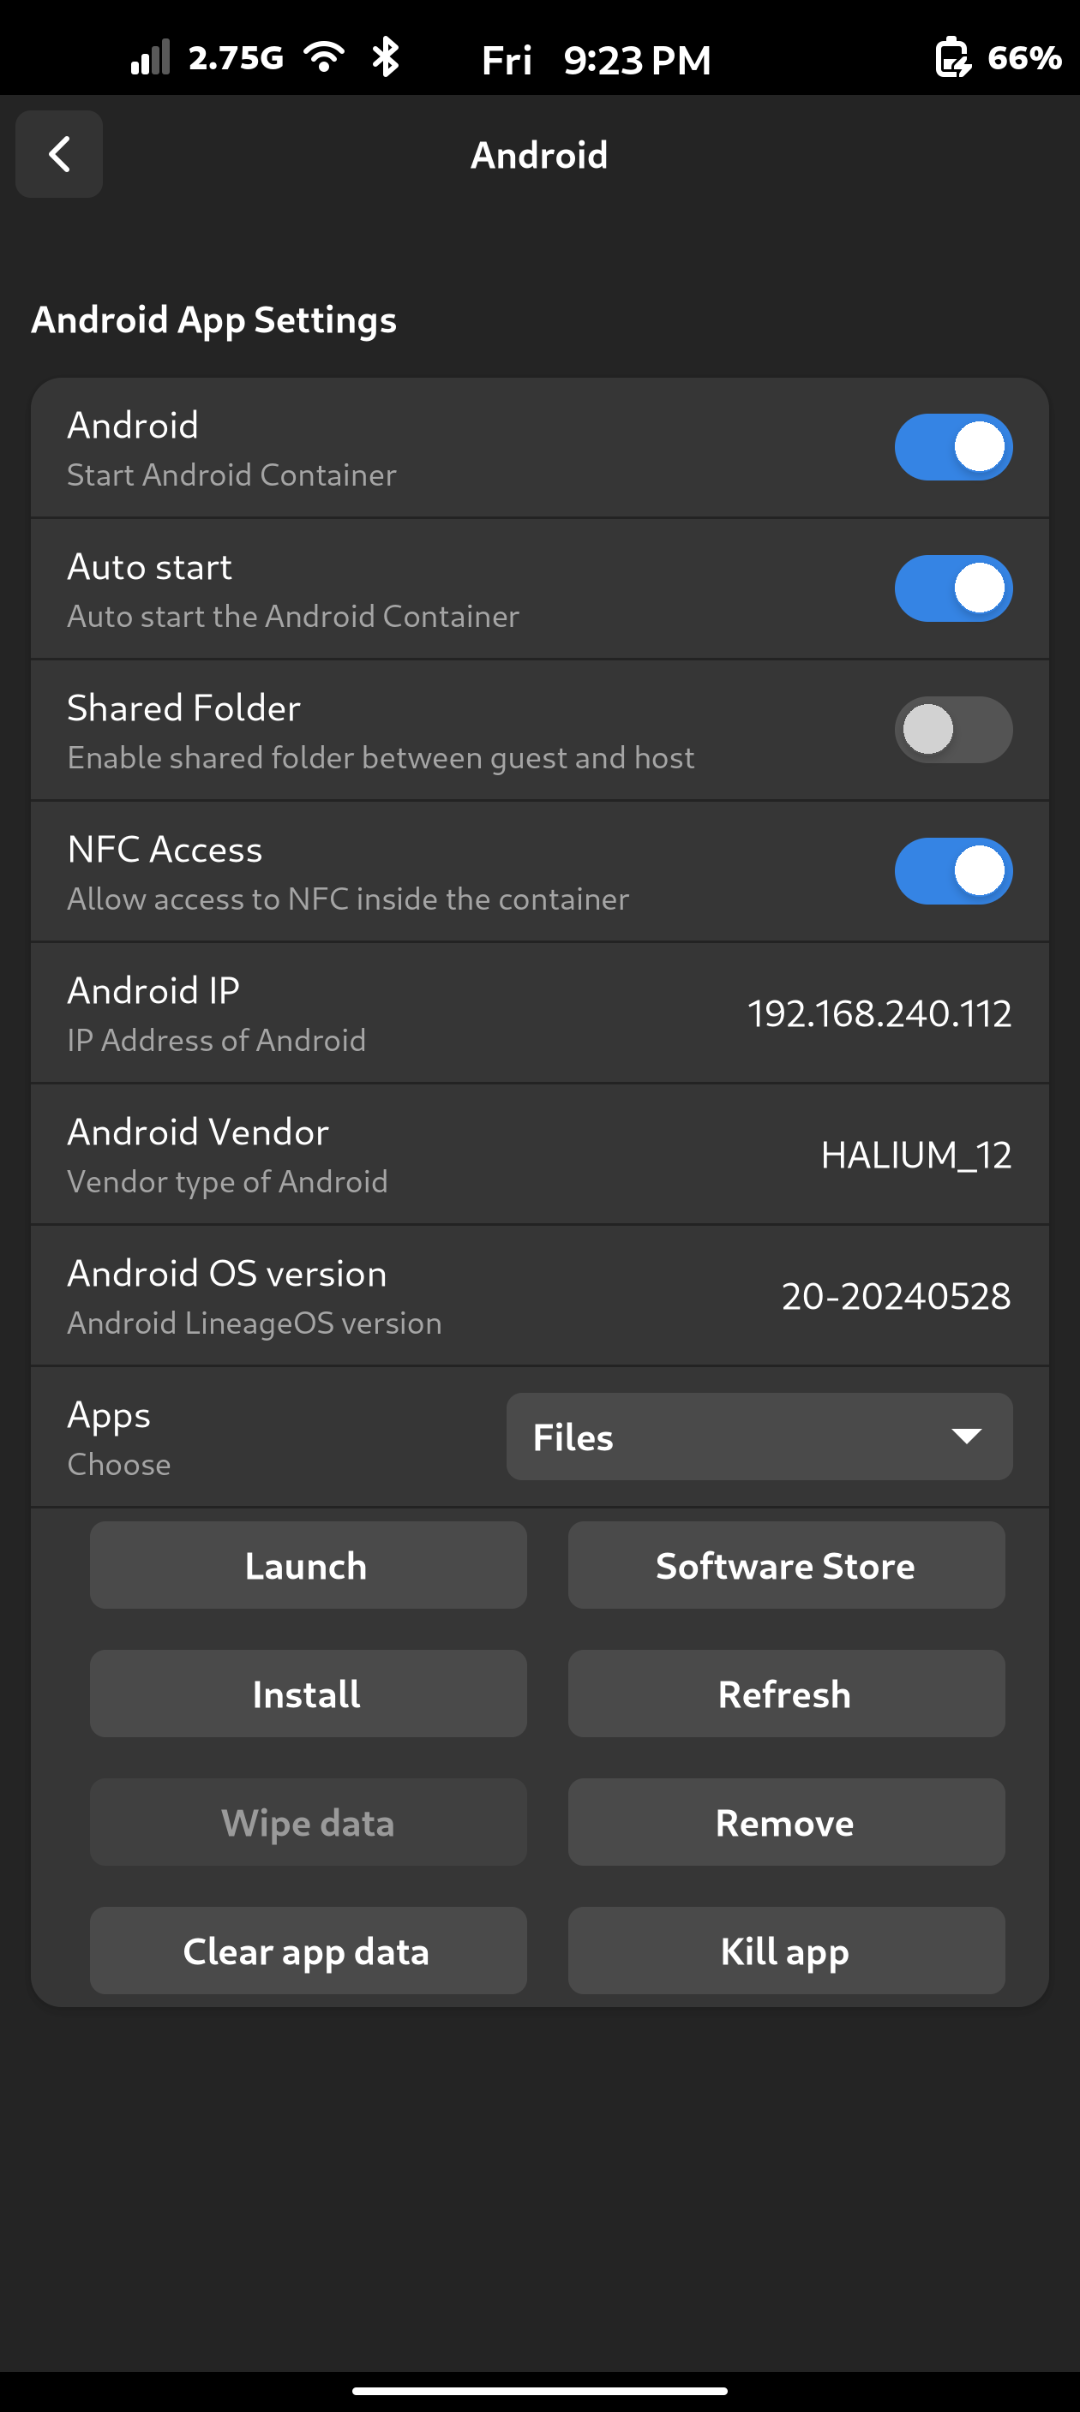
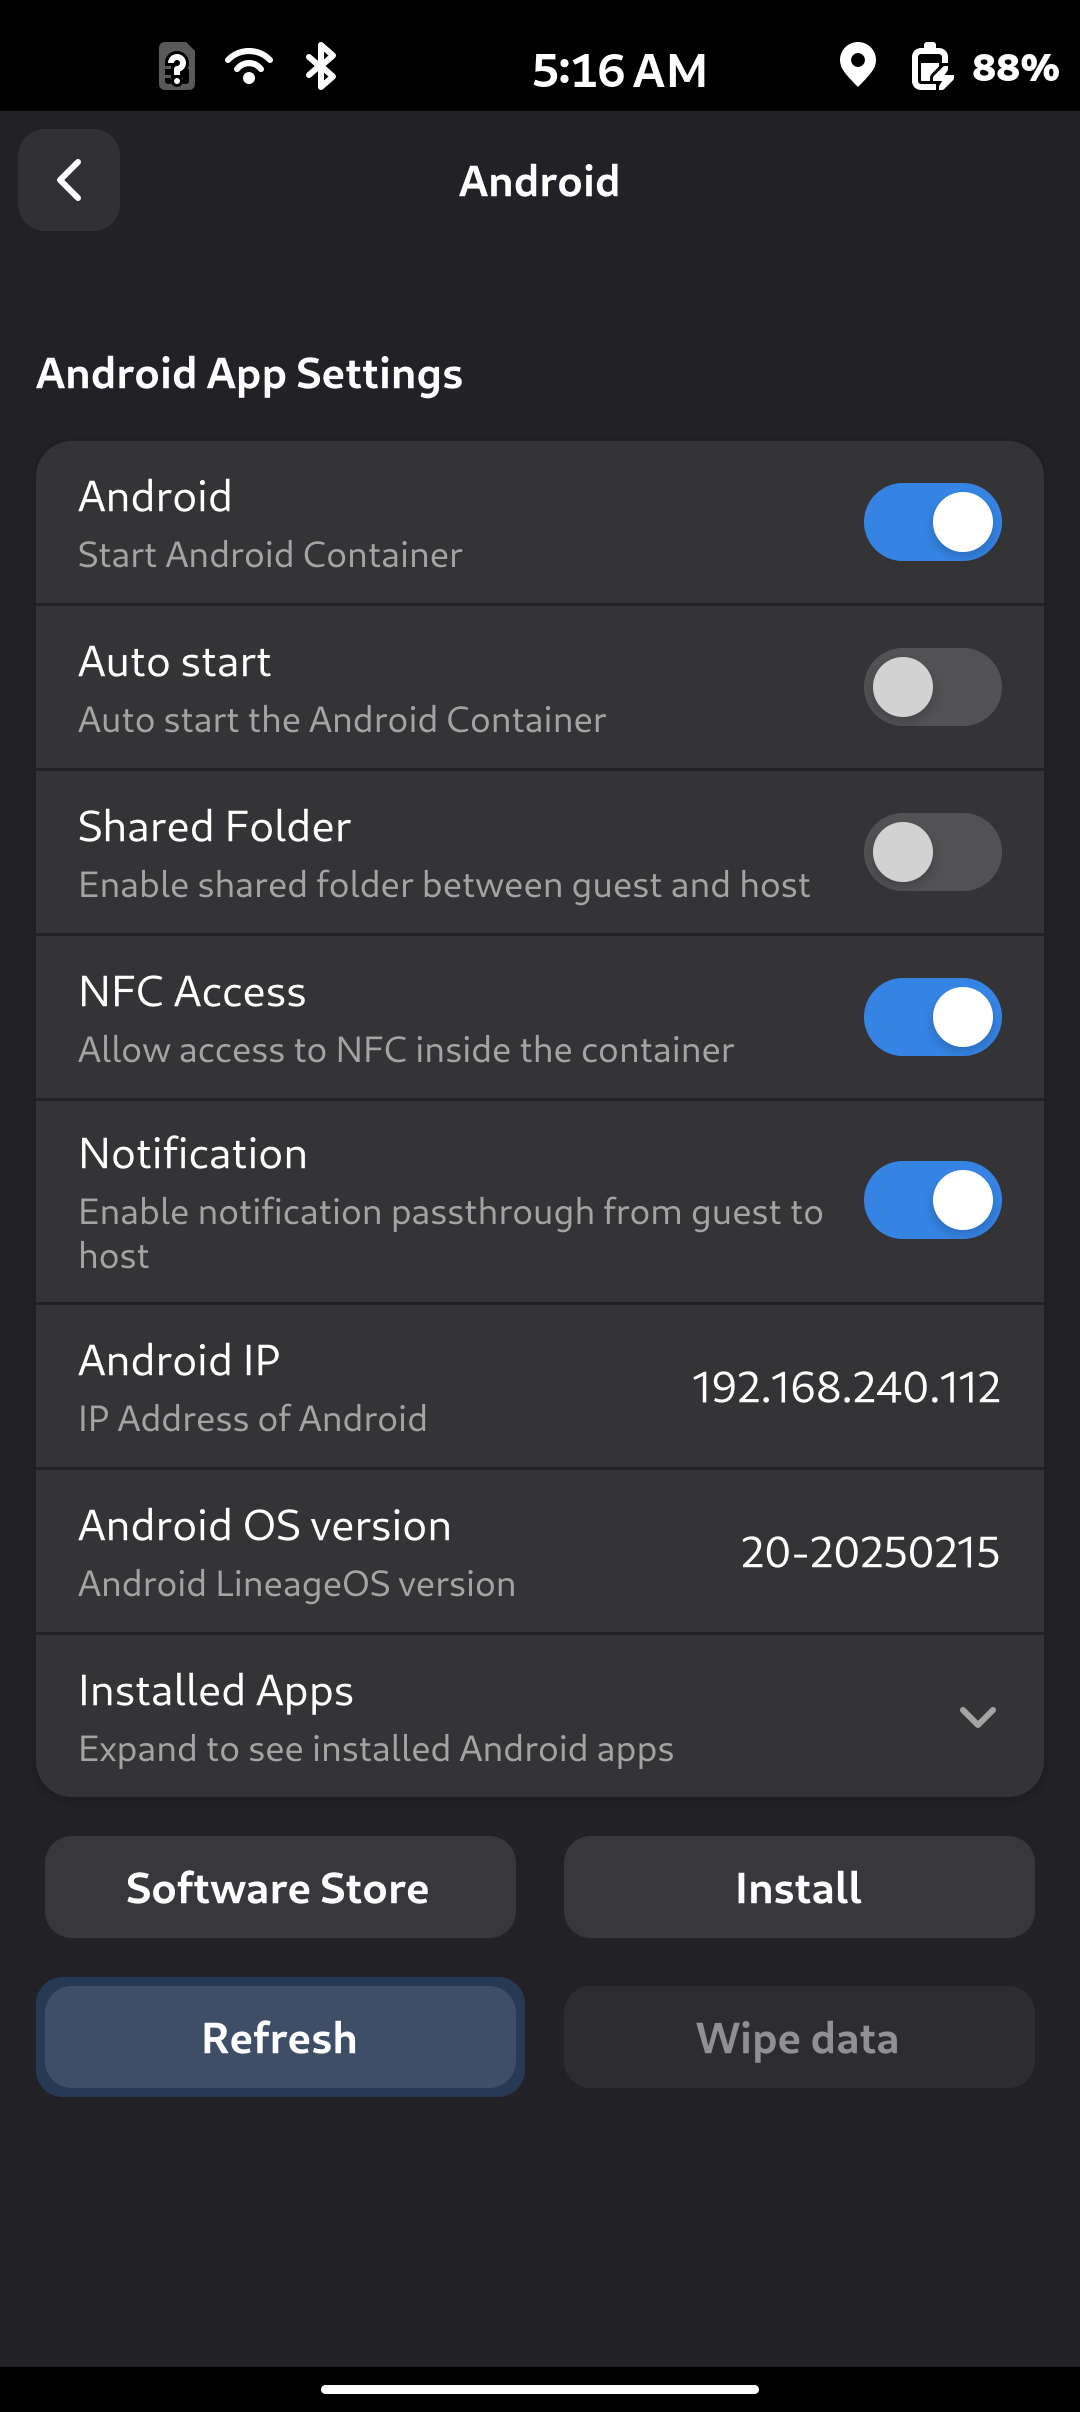
FLX1: Updates

diff --git a/content/FuriLabs-FLX1.md b/content/FuriLabs-FLX1.md
@@ -1,7 +1,7 @@
 +++
 title = "Furilabs FLX1"
 description = "Information about the Furilabs FLX1, its features and limitations."
-date = 2024-09-16
+date = 2025-03-09
 draft = false
 
 [taxonomies]
@@ -26,24 +26,24 @@ series = "Phones"
 - Battery Life: 5/5
 
 # Setup information
-- OS: FuriOS 13.0.3
-- Kernel: 4.19.233
+- OS: FuriOS 13.0.8
+- Kernel: 4.19.325
 - DE: Phosh
 
 
 # Performance
 
-The FLX1 is a fast phone in general. The Mediatek Dimensity 900 is a fast SOC especially compared to the pinephone/pinephone pro/librem 5 devices. It comes with 6GB of RAM , which is more than enough for most tasks but can be limiting. Web browsing and media playback are fast and smooth. Android container is fully supported so acceleration works well and the performance is great. There are some acceleration issues with flatpak qt6 based applications, so they are set to software rendering. Flatpak qt5/gtk4 and native qt5/qt6/gtk4 are all accelerated without issues.
+The FLX1 is a fast phone in general. The Mediatek Dimensity 900 is a fast SOC especially compared to the pinephone/pinephone pro/librem 5 devices. It comes with 6GB of RAM , which is more than enough for most tasks but can be limiting. Web browsing and media playback are fast and smooth. Android container is fully supported with acceleration working well and the performance is great. There are some acceleration issues with flatpak qt6 based applications. Flatpak qt5/gtk4 and native qt5/qt6/gtk4 are all accelerated without issues.
 
 
 # Compatibility
 
-The FLX1 is a halium based device so it is limiting to what OS/DE you can run on it. Currently FuriOS is the only supported OS, but someone can create a port for UT. You wont be able to run any of the other mainline OS though like arch and postmarketos. For desktop environments (DE) you are also limited to Phosh and potentially Lomiri, assuming UT is ported by a 3rd party. Plasma mobile also has a fork that someone was able to get it working on droidian devices but it is not officially supported and stuck on plasma mobile 5. Every app that I've tested so far was launched and worked correctly, bearing the HW acceleration issues.
+The FLX1 is a halium based device so it is limiting to what OS/DE you can run on it. Currently FuriOS is the only supported OS, but there exists a WIP Ubuntu Touch port. You wont be able to run any of the other mainline OS though like arch and postmarketos. For desktop environments (DE) you are also limited to Phosh in FuriOS and Lomiri in the Ubuntu Touch port. GTK based applications seem to function the best while some QT based applications have issues such as acceleration and/or failing to launch like angelfish.
 
 
 # Android
 
-Android support is amazing with lots of sensors passed through to the container, listed below. While Waydroid was used a base, it has been heavily modified to improve the experience and has deviating massively from waydroid so I will just adress it as Android Container. You should be able to run most android applications without any issues, including games. Currently video playback is broken, but there is already a patch avaliable that fixes most issues and I can confirm Grayjay works. Android also integrated perfectly with the rest of the OS. All your android applications show up in the app drawer. Theres a android section in the phosh settings that exposes a lot of android settings to the user. The current implementation of the settings panel (as shown below) is going through a redesign.
+Android support is amazing with lots of sensors passed through to the container, listed below. While Waydroid was used a base, it has been heavily modified to improve the experience and has deviated massively from upstream waydroid so I will just adress it as Android Container. You should be able to run most android applications without any issues except the usually culprits like some bank applications. Video playback works and I can confirm Grayjay works perfectly except the volume control guesture. Android also integrated perfectly with the rest of the OS with all your android applications showing up in the app drawer. There is a gnome software plugin so you can search and install android apps through gnome software store as if it was a native application removing the need to open fdroid. There's a android section in the phosh settings that exposes a lot of android settings to the user as shown below.
 
 {{ resize_image(path="/images/misc/furios/android_settings.png", width=480, alt="FuriOS Android Settings") }}
 
@@ -54,8 +54,8 @@ Android support is amazing with lots of sensors passed through to the container,
 | GPS                 | {{ img(src="/icons/checkmark.svg" alt="Yes")}} |
 | Cameras             | {{ img(src="/icons/checkmark.svg" alt="Yes")}} |
 | Microphone          | {{ img(src="/icons/checkmark.svg" alt="Yes")}} |
-| Bluetooth           | {{ img(src="/icons/exclamation.svg" alt="Maybe")}} |
-| Modem               | {{ img(src="/icons/exclamation.svg" alt="Maybe")}} |
+| Bluetooth           | {{ img(src="/icons/cross.svg" alt="No")}} |
+| Modem               | {{ img(src="/icons/checkmark.svg" alt="Yes")}} |
 | NFC                 | {{ img(src="/icons/checkmark.svg" alt="Yes")}} |
 | Fingerprint Sensor  | {{ img(src="/icons/checkmark.svg" alt="Yes")}} |
 | Accelerometer       | {{ img(src="/icons/checkmark.svg" alt="Yes")}} |
@@ -76,18 +76,18 @@ Android support is amazing with lots of sensors passed through to the container,
 
 # Docking
 
-The FLX1 isn't currently able to output video via the usb c port due to the lack of hardware support. They are currently working on a wireless solution like what UT has with Miracast. This would limit you to only using Miracast compatible devices such as the Nexdock Wireless or using a Miracast dongle. This is still not available yet though so only time will tell how well it works.
+The FLX1 docking is in a weird position as the hardware does not support usb dp-alt mode but they are still able to utilize evdi to get video rendering externally. They are also wireless solution like what UT has with Miracast that can be implemented in the future.This is still not available yet though so only time will tell how well it works and how universal these options are.
 
 
 # Web Browsing
 
-Web browsing works really well and I haven't ran into any issues with firefox yet. Firefox is a custom build that they maintain internal with improvements to performance and scaling to make it more mobile friendly. Due to it being a custom build it is possible for it to fall behind a few releases due to issues in new releases but so far they are on top of it and the changes are amazing. Based on benchmarking results with [speedometer 3.0](https://browserbench.org/Speedometer3.0/) either firefox or epiphany work but I would recommend firefox. Angelfish doesn't work at all.
+Web browsing works really well. Firefox is a custom build that they maintain internal with improvements to performance and scaling to make it more mobile friendly. Due to it being a custom build it is possible for it to fall behind a few releases due to diffs in new releases but so far they are on top of it and the changes are amazing. Benchmarking results with [speedometer 3.0](https://browserbench.org/Speedometer3.0/) are below but I would recommend sticking with firefox. Angelfish does not launch at all.
 
-| Browser | Score | Version | Toolkit | Method |
+| Browser | Score | Version | Toolkit | Install Method |
 |---------|-------|---------|---------|--------|
-| Firefox | 2.28 &plusmn; 0.17 | 128.0.3 | Gecko   | Repo |
-| Angelfish | N/A | 24.08.0 | Chromium | Flatpak |
-| Epiphany | 2.12 &plusmn; 0.054 | 46.3 | WebKit | Flatpak |
+| Firefox | 2.77 &plusmn; 0.060 | 135.0.1 | Gecko   | Repo |
+| Angelfish | N/A | 24.12.3 | Chromium | Flatpak |
+| Epiphany | 1.46 &plusmn; 0.030 | 47.3.1 | WebKit | Flatpak |
 
 
 # Media Playback
@@ -98,9 +98,9 @@ Below is a table of different video codecs and their playback performance. Based
 
 | Player | Version | Method |
 |--------|---------|--------|
-| MPV    | 0.38.0  | Repo |
+| MPV    | 0.39.0  | Repo |
 | Clapper | 0.6.1  | Flatpak |
-| Livi | 0.2.0  | Flatpak |
+| Livi | 0.3.1  | Flatpak |
 
 ### H.264/AVC
 
@@ -152,7 +152,7 @@ Below is a table of different video codecs and their playback performance. Based
 
 # Camera
 
-The phone does not support libcamera or megapixels like other linux phones. Instead it has it's own camera stack that exposes the cameras out via v4l, gstreamer and qcamera. This allows it to be used universally by other applications for video chatting such as through firefox. The camera quality is really good and the processing is instant. The camera application also opens up instantly allowing you to quickly capture a moment. It is also capable of taking video with audio in sync. The phone has 3 camera sensors and all them are supported and exposed. There is no advance mode to manually control WB, ISO, codec, etc. It does have tap to adjust though and the auto focus/wb/iso works really well.
+The phone does not support libcamera or megapixels like other linux phones. Instead it has it's own camera stack that exposes the cameras out via v4l, gstreamer and qcamera. This allows it to be used universally by other applications for video chatting such as through firefox. The camera quality is really good and the processing is instant. The camera application also opens up almost instantly allowing you to quickly capture a moment. It is also capable of taking video with audio in sync. The phone has 3 camera sensors and all them are supported and exposed. There is no advance mode to manually control WB, ISO, codec, etc. It does have tap to adjust though and the auto focus/wb/iso works really well.
 
 | Temp   | Kelvin | Led   |
 |--------|--------|-------|
@@ -191,24 +191,26 @@ The phone does not support libcamera or megapixels like other linux phones. Inst
 
 # Battery Life
 
-The phone has great battery life with the screen on and on standby. Standby is also different from the mainline devices as it does not use deep sleep. Instead it uses a low power mode that still allows network activity. This allows you to ssh in at anytime and continue to receive notifications from web based apps.
+The phone has amazing battery life with the screen on and on standby. Standby is also different from the mainline devices as it does not use deep sleep. Instead it uses a low power mode that still allows network activity. This allows you to ssh in at anytime and continue to receive notifications from web based apps.
 
 Testing was done using the following settings:
 
 - Screen brightness set to 50%
 - Screen timeout disabled
-- Measured from 100% battery to device shutdown
+- Measured from 100% battery to device shutdown except for standby
 - With and without android running in the background
+- With sim unless otherwise specified
 
 | Method | Battery Life |
 |--------|--------------|
-| Screen on | 10.54 hours |
-| Screen on + Android | 10 hours | 
-| mpv 720p Video Playback | 6.11 hours |
-| Stress cpu | 5.33 hours |
-| Stress cpu + Android | 5.38 hours |
-| Standby | 3.55 Days |
-| Standby + Android | 2.79 Days |
+| Screen on |  |
+| Screen on + Android | |
+| mpv 720p Video Playback |  |
+| Stress cpu |  |
+| Standby |  |
+| Standby without sim |   |
+| Standby + Android |  |
+| Standby + Android without sim |  |
 
 
 # Support
